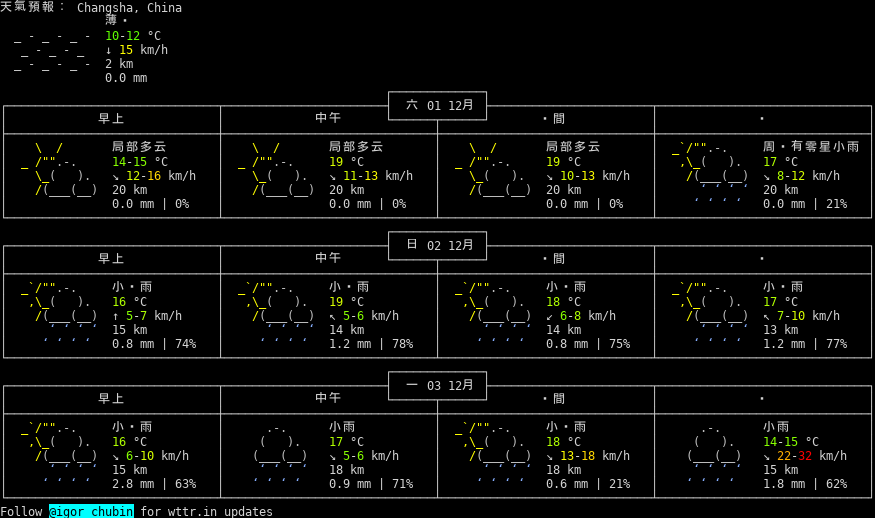
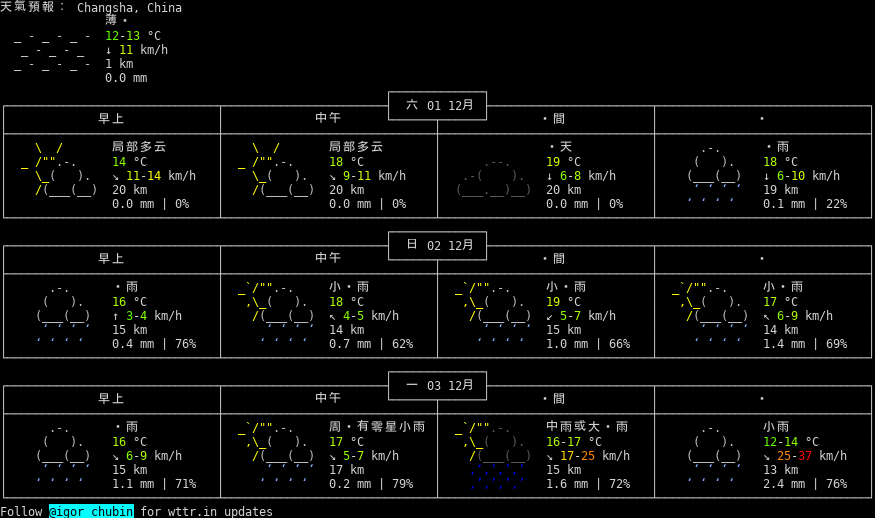
update Today's log:)

diff --git a/README.md b/README.md
@@ -2185,3 +2185,4 @@ My Shell_script learning note
 * 2018年12月01日 星期Sat AM 9:00 CST   天气: 12°C (Heiwajima, Japan)
 * 2018年12月01日 星期Sat AM 9:20 CST   天气: 12°C (Heiwajima, Japan)
 * 2018年12月01日 星期Sat AM 9:40 CST   天气: 12°C (Heiwajima, Japan)
+* 2018年12月01日 星期Sat AM10:00 CST   天气: 12-13°C (Heiwajima, Japan)

diff --git a/weather.md b/weather.md
@@ -8569,3 +8569,7 @@
 
 ![](PNG/20181201.png)
 
+2018年 12月 01日
+
+![](PNG/20181201.png)
+
